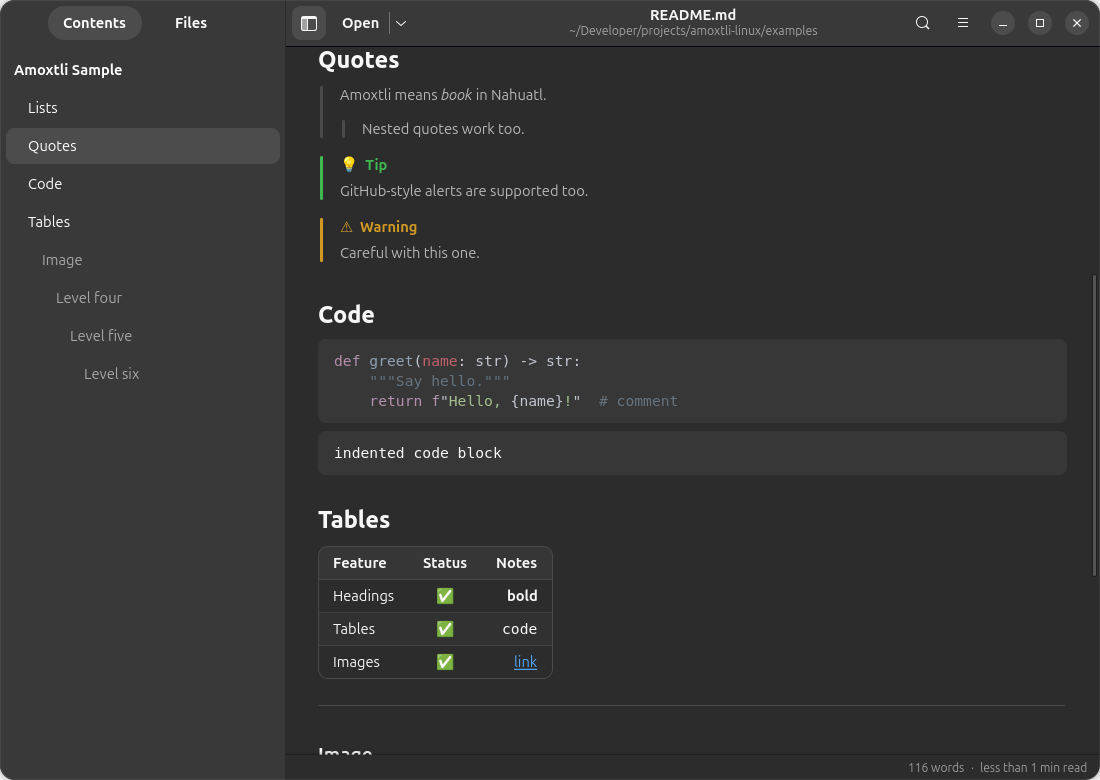
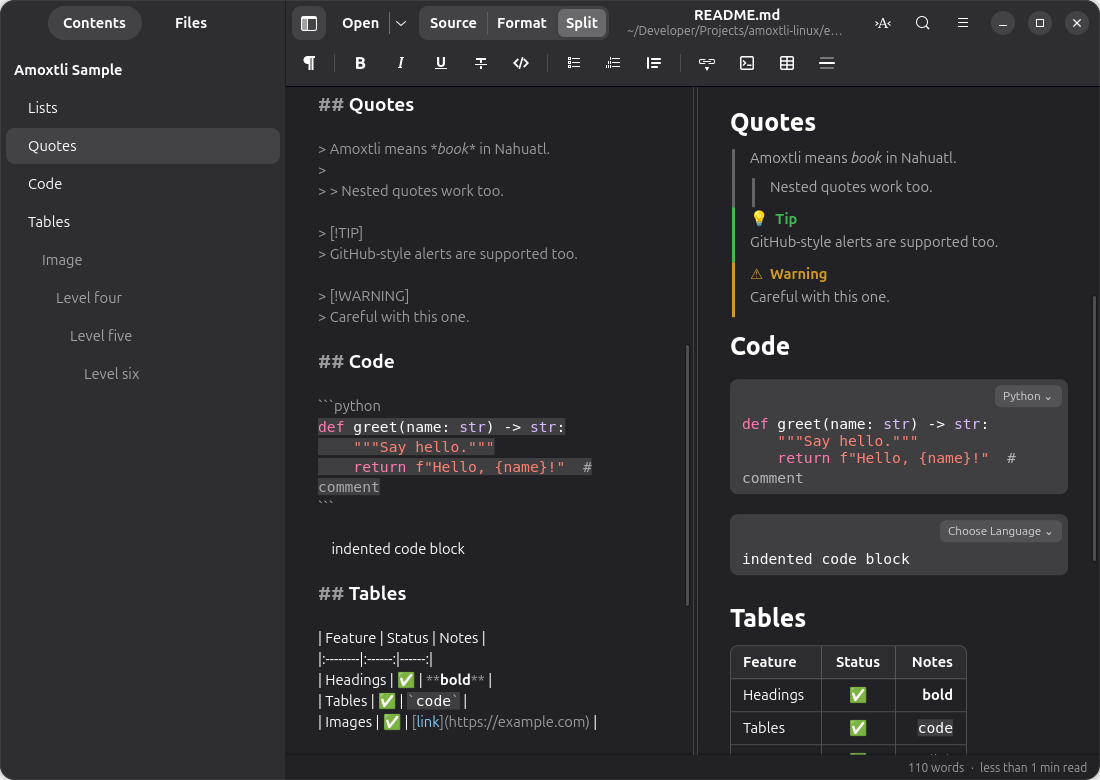
Release 2.0.0
Amoxtli becomes a Markdown editor. New screenshots of the formatted,
split and source views; release notes in the AppStream metadata; code
wraps at spaces and without hyphens.

diff --git a/src/editor/rich/mod.rs b/src/editor/rich/mod.rs
@@ -379,7 +379,7 @@ impl RichView {
             .pixels_below_lines(look.below)
             .build();
         if look.code {
-            t.set_wrap_mode(gtk::WrapMode::Char);
+            t.set_wrap_mode(gtk::WrapMode::WordChar);
         }
         self.add_tag(&t);
         t
@@ -408,9 +408,14 @@ impl RichView {
         let raw = self.tag("raw");
         raw.set_foreground_rgba(Some(&dim));
         raw.set_family(Some("monospace"));
-        self.tag("code-line").set_family(Some("monospace"));
+        // code wraps where it must, without the hyphens Pango adds to broken words
+        let code_line = self.tag("code-line");
+        code_line.set_family(Some("monospace"));
+        code_line.set_insert_hyphens(false);
+        self.tag("code").set_insert_hyphens(false);
         let raw_line = self.tag("raw-line");
         raw_line.set_family(Some("monospace"));
+        raw_line.set_insert_hyphens(false);
         raw_line.set_foreground_rgba(Some(&dim));
         self.tag("quoted").set_foreground_rgba(Some(&dim));
         for kind in TokenKind::ALL {

diff --git a/src/editor/source_view.rs b/src/editor/source_view.rs
@@ -330,6 +330,7 @@ impl SourceView {
         tag("strike").set_strikethrough(true);
         let code = tag("code");
         code.set_family(Some("monospace"));
+        code.set_insert_hyphens(false);
         code.set_background_rgba(Some(&code_bg));
         tag("link").set_foreground_rgba(Some(&accent));
         tag("list-marker").set_foreground_rgba(Some(&accent));

diff --git a/README.md b/README.md
@@ -4,16 +4,16 @@
 **Rust** with **GTK 4 + libadwaita** so it looks and behaves like a first-class GNOME app.
 It ships as a single ~4 MB binary.
 
-![Amoxtli showing a Markdown document with its table of contents](data/screenshots/light.png)
+![The formatted editor, with its formatting tools and the table of contents](data/screenshots/light.png)
 
 <table>
   <tr>
-    <td><img src="data/screenshots/dark.png" alt="Dark mode with alerts, syntax-highlighted code and a table"></td>
-    <td><img src="data/screenshots/folder.png" alt="Browsing a folder of Markdown notes"></td>
+    <td><img src="data/screenshots/dark.png" alt="The split view in dark mode: Markdown source and formatted document side by side"></td>
+    <td><img src="data/screenshots/folder.png" alt="Editing the Markdown source in a folder of notes"></td>
   </tr>
   <tr>
-    <td align="center">Dark mode, alerts, code and tables</td>
-    <td align="center">Browse a whole folder of notes</td>
+    <td align="center">Source and formatted view side by side</td>
+    <td align="center">The source, in a folder of notes</td>
   </tr>
 </table>
 
@@ -72,8 +72,8 @@ you can also get a single-file Flatpak bundle (no automatic updates):
 **Prebuilt binary** (needs GTK ≥ 4.20 and libadwaita ≥ 1.8, i.e. GNOME 49+):
 
 ```sh
-tar xzf amoxtli-1.1.0-x86_64-linux.tar.gz
-cd amoxtli-1.1.0-x86_64-linux
+tar xzf amoxtli-2.0.0-x86_64-linux.tar.gz
+cd amoxtli-2.0.0-x86_64-linux
 ./install.sh            # or ./install.sh --default to make it your Markdown app
 ```
 

diff --git a/examples/README.md b/examples/README.md
@@ -3,7 +3,7 @@ title: front matter is hidden
 ---
 # Amoxtli Sample
 
-Welcome to **Amoxtli**, a *native* Markdown viewer. It supports `inline code`, ~~strikethrough~~,
+Welcome to **Amoxtli**, a *native* Markdown editor. It supports `inline code`, ~~strikethrough~~,
 [external links](https://gnome.org), [links to sections](#tables), and [other files](notes/guide.md).
 Line one with a hard break  
 line two. Footnotes work as well.[^1]
